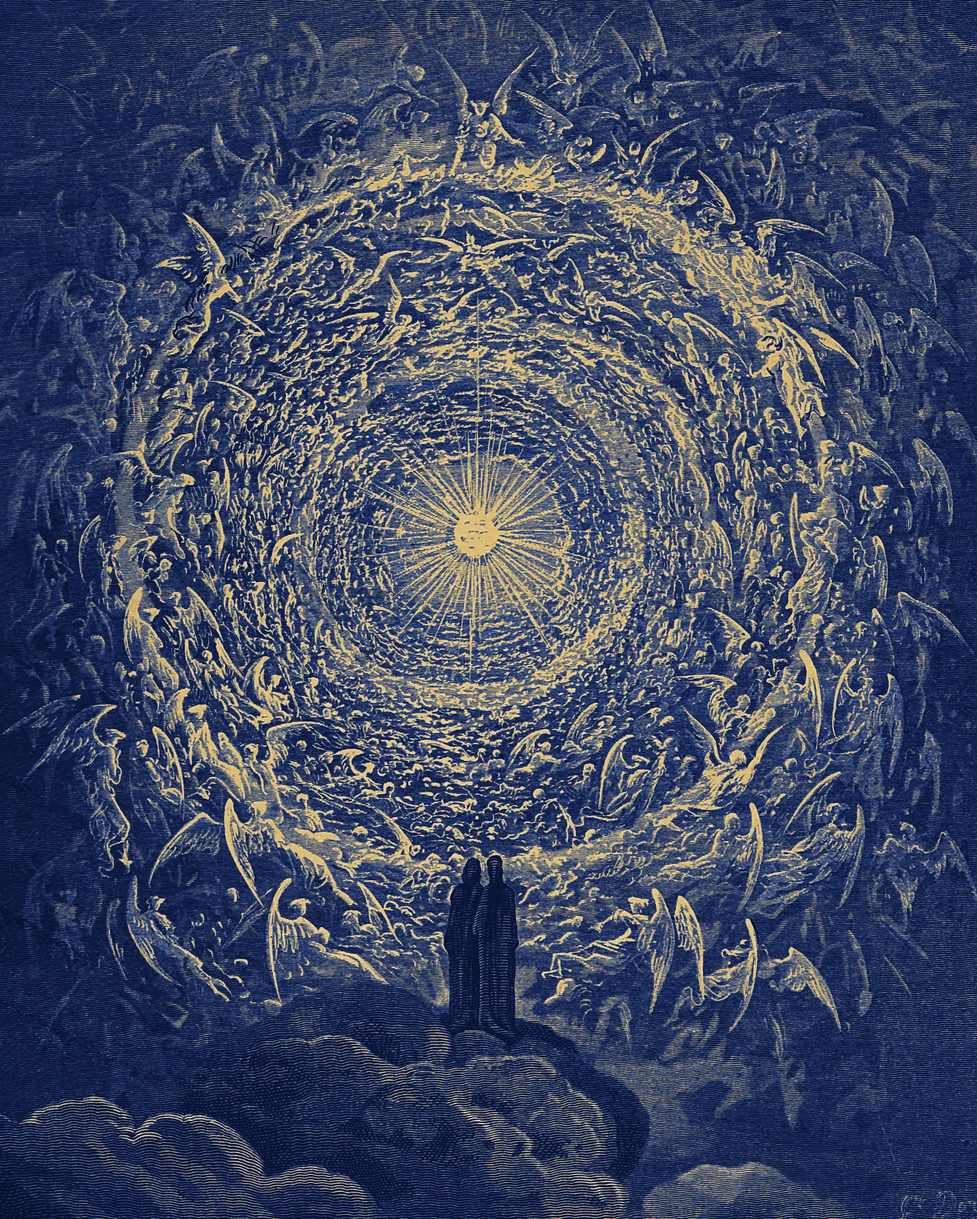
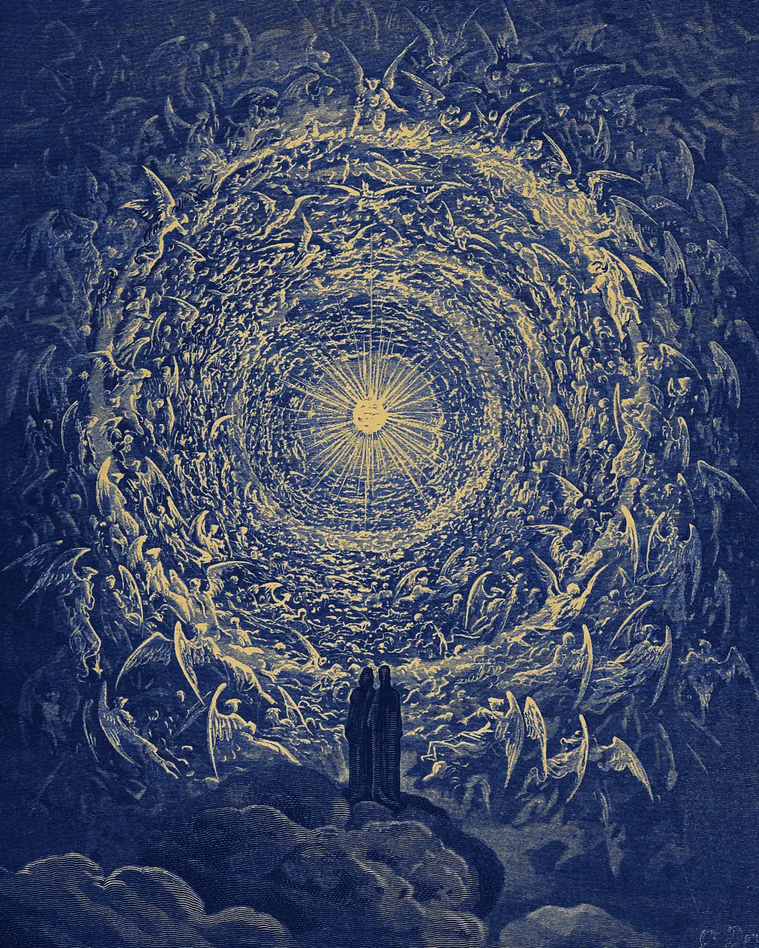
Merge pull request #50 from adriandotdev/perf/landing-image-optimization
perf: optimize landing images for LCP and page weight

diff --git a/components/landing/art.ts b/components/landing/art.ts
@@ -11,11 +11,11 @@ const art = (name: string, width: number, height: number, alt: string): Art => (
 
 export const EMPYREAN = art(
   "empyrean",
-  1800,
-  2247,
-  "Gustave Doré’s engraving of the Empyrean: countless angels wheel in a vast rose around a point of light, printed here in gold on deep blue.",
+  1400,
+  1748,
+  "Gustave Doré’s engraving of the Empyrean: countless angels wheel in a vast rose around a point of light, in gold on blue.",
 );
-export const EMPYREAN_ROSE = art("empyrean-rose", 1100, 1100, "");
+export const EMPYREAN_ROSE = art("empyrean-rose", 1000, 1000, "");
 
 export const CORONATION_FRESCO = art(
   "coronation",
@@ -25,14 +25,14 @@ export const CORONATION_FRESCO = art(
 );
 export const DOMINIC = art(
   "dominic",
-  1100,
-  1569,
+  1000,
+  1426,
   "Saint Dominic, in Fra Angelico’s fresco, lifting his eyes toward the Cross.",
 );
 export const ANNUNCIATION_ALTARPIECE = art(
   "annunciation-prado",
-  2600,
-  1633,
+  1800,
+  1131,
   "Fra Angelico’s Annunciation: the angel Gabriel bows before Mary beneath a blue vault scattered with gold stars.",
 );
 export const VIRGIN = art(
@@ -43,14 +43,14 @@ export const VIRGIN = art(
 );
 export const FRANCIS = art(
   "francis",
-  1100,
-  1337,
+  1000,
+  1215,
   "Giotto’s Saint Francis on Mount La Verna, kneeling before a seraph against a gold ground.",
 );
 export const CORONATION_PANEL = art(
   "coronation-a",
-  1800,
-  1282,
+  1500,
+  1068,
   "Fra Angelico’s panel of Christ crowning Mary, her blue mantle spread on a gold ground.",
 );
 export const BLESSING = art(
@@ -87,7 +87,7 @@ export const MYSTERY_ART: Record<MysterySetId, [Art, Art, Art, Art, Art]> = {
     art("resurrection", 804, 690, "Giotto: the risen Jesus with Mary Magdalene beside the empty tomb."),
     art("ascension", 632, 576, "Giotto: Jesus rising into a blue heaven above the apostles and Mary."),
     art("pentecost", 673, 592, "Giotto: the apostles gathered under Gothic arches as the Spirit descends."),
-    art("assumption", 1100, 1800, "Fra Angelico: Mary carried into heaven among choirs of angels."),
+    art("assumption", 1000, 1636, "Fra Angelico: Mary carried into heaven among choirs of angels."),
     art("coronation", 1800, 2130, "Fra Angelico: Christ crowning Mary, with saints kneeling below."),
   ],
 };

diff --git a/components/landing/hero-scene.tsx b/components/landing/hero-scene.tsx
@@ -84,7 +84,7 @@ export function HeroScene() {
             <motion.div className="land-camera" style={full ? { x: shift } : undefined}>
               <motion.div className="land-ascend" style={full ? { scale: zoom, visibility: artVisibility } : undefined}>
                 <motion.div className="land-art" style={full ? { x: driftX, y: driftY } : undefined}>
-                  <Image src={EMPYREAN.src} alt={EMPYREAN.alt} fill priority sizes="(min-width: 48rem) 90vw, 130vw" />
+                  <Image src={EMPYREAN.src} alt={EMPYREAN.alt} fill priority fetchPriority="high" quality={60} sizes="(min-width: 48rem) 90vw, 130vw" />
                   <motion.div className="land-wheel" style={full ? { rotate: turn } : undefined}>
                     <div className="land-rose">
                       <Image src={EMPYREAN_ROSE.src} alt="" fill sizes="(min-width: 48rem) 80vw, 110vw" />

diff --git a/next.config.ts b/next.config.ts
@@ -5,6 +5,13 @@ const nextConfig: NextConfig = {
     agentUpgrade: "security",
   },
   poweredByHeader: false,
+  images: {
+    formats: ["image/avif", "image/webp"],
+    // Landing art filenames never change, so let optimized copies live for 31 days.
+    minimumCacheTTL: 2678400,
+    // 60 is the hero engraving; 75 is the default for everything else.
+    qualities: [60, 75],
+  },
   async headers() {
     return [
       {
